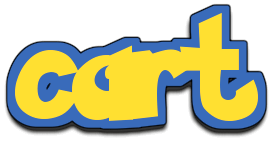
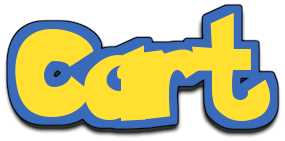
css

diff --git a/forms/inventory_forms/customer_shopping.css b/forms/inventory_forms/customer_shopping.css
@@ -18,34 +18,53 @@ body
     top: 0.8%;
     width: 27.25%; 
 }
+#cart
+{
+    position: fixed;
+    right: 1%;
+    top: 0.8%;
+    width: 8%; 
+}
+#wishlist
+{
+    position: fixed;
+    right: 10%;
+    top: 1%;
+    width: 11%; 
+}
+#search
+{
+    top: 20%;
+    margin-left: auto;
+    margin-right: auto;
+}
+#filter
+{
+    top: 20%;
+    margin-left: auto;
+    margin-right: auto;
+}
+/*
 #form
 {
     margin: 12.5% auto;
 }
+*/
 table
 {
     background-color: white;     
+    margin-left: auto;
+    margin-right: auto;
 }
 table,tr,th,td
 {
+    margin-top: 27px;
+    width: 1250px;
+    text-align: center;
+    vertical-align: middle;
     border: 1px solid black;
-}
-h2
-{
-    width: 30%;
-    background-color: white;
     border-radius: 15px;
-    text-align: center;
 }
-#carts
-{
-    width: 30%;
-    position: fixed; 
-    right: 0;
-    padding-right: 15px;
-    margin-right: 15px;
-    background-color: white;
-    border-radius: 25px;
-    text-align: center;
-}
+
+
 

diff --git a/forms/inventory_forms/customer_shopping.php b/forms/inventory_forms/customer_shopping.php
@@ -34,6 +34,18 @@ $result = mysqli_query($dbconn, $query);
         <a href = "../home_page/index.php">
 			<img id = "logo" src = "../../img/lnt/logo.png" alt = "PokeMart"> 
         </a>
+
+
+        <a href = "wishlist.php">
+        <img id = "wishlist" src = "../../img/lnt/wishlist.png" alt = "Wishlist" width ="300">
+        </a>
+
+
+        <a href = "shopping_cart.php">
+        <img id = "cart" src = "../../img/lnt/cart.png" alt = "Shopping Cart" width ="300">
+        </a>
+
+
     </head>
 
     <body>
@@ -42,26 +54,19 @@ $result = mysqli_query($dbconn, $query);
         if(isset($_SESSION['ULID'])) //make sure a user is logged in
         {
     ?>
-            <div id="carts">
-                        <form action="shopping_cart.php" method="post">
-                            <a href = "shopping_cart.php">
-                                <h2>Shopping Cart</h2>
-                            </a>
-                        </form>
-                        <form action="wishlist.php" method="post">
-                            <a href = "wishlist.php">
-                                <h2>Wishlist</h2>
-                            </a>
-                        </form>
-            </div>
     <?php
         }
     ?>
            
         <form id = "form" method="post">
-            <h1>PokeMart Shop</h1>
+
+         
+            <div id = "search">
             <input type="text" name="valueToSearch" placeholder="Search"/><br><br>
             <input type="submit" name="submit" value="Filter"/><br><br>
+            </div>
+
+            
             
             <table>
                 <tr>
